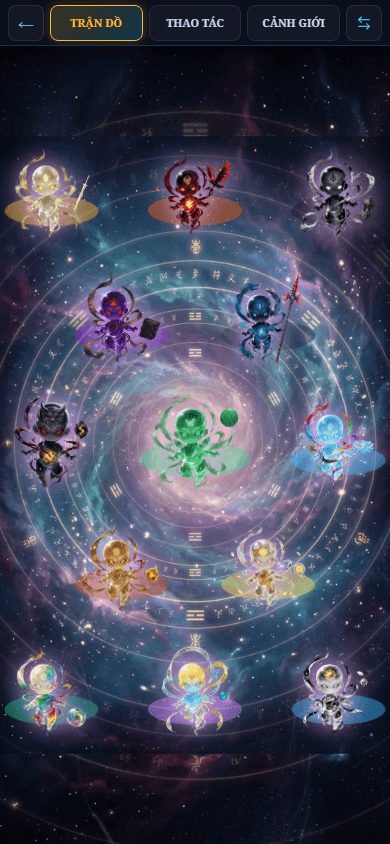
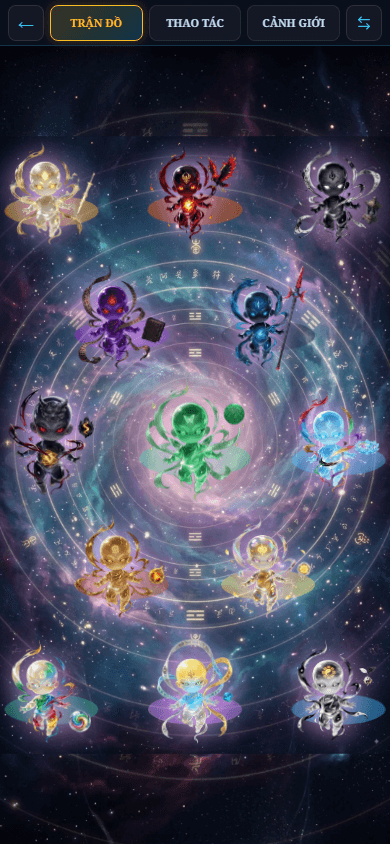
test(dao-anh): update assertions and screenshots for mapBoost 1.15

diff --git a/scripts/test-daoanh-auto-transform.js b/scripts/test-daoanh-auto-transform.js
@@ -125,6 +125,7 @@ console.log(`✓ PASS: Toàn bộ ${containTested} lượt (42 Đạo Anh x 5 Ki
 // 7. Kiểm tra chế độ đồng nhất DAO_ANH_UNIFORM (enabled: true)
 console.log('\n--- 7. Kiểm tra chế độ đồng nhất DAO_ANH_UNIFORM (enabled: true) ---');
 DAO_ANH_UNIFORM.enabled = true;
+assert.strictEqual(DAO_ANH_UNIFORM.mapBoost, 1.15, 'DAO_ANH_UNIFORM.mapBoost phải có giá trị 1.15');
 let totalUniformChecked = 0;
 const clampedCases = [];
 
@@ -148,10 +149,17 @@ for (const da of DAO_ANH_LIST) {
       }
     }
 
-    // Kiểm tra getDaoAnhSvgTransform
+    // Kiểm tra getDaoAnhSvgTransform (có nhân mapBoost mặc định 1.15)
     const svgStr = getDaoAnhSvgTransform(da, k);
     assert(svgStr.startsWith('translate(') && svgStr.includes('scale('), `${da.id} kiếp ${k} SVG transform không hợp lệ: ${svgStr}`);
     assert(!svgStr.includes('NaN') && !svgStr.includes('undefined'), `SVG transform chứa NaN/undefined: ${svgStr}`);
+
+    // Kiểm tra mapBoost được áp dụng vào scale của SVG
+    const svgUnboosted = getDaoAnhSvgTransform(da, k, { mapBoost: 1.0 });
+    const scBoosted = parseFloat(svgStr.match(/scale\(([^)]+)\)/)[1]);
+    const scUnboosted = parseFloat(svgUnboosted.match(/scale\(([^)]+)\)/)[1]);
+    const boostRatio = scBoosted / scUnboosted;
+    assert(Math.abs(boostRatio - 1.15) <= 0.02, `${da.id} kiếp ${k} scale boost (${boostRatio}) phải xấp xỉ 1.15`);
 
     totalUniformChecked++;
   }
